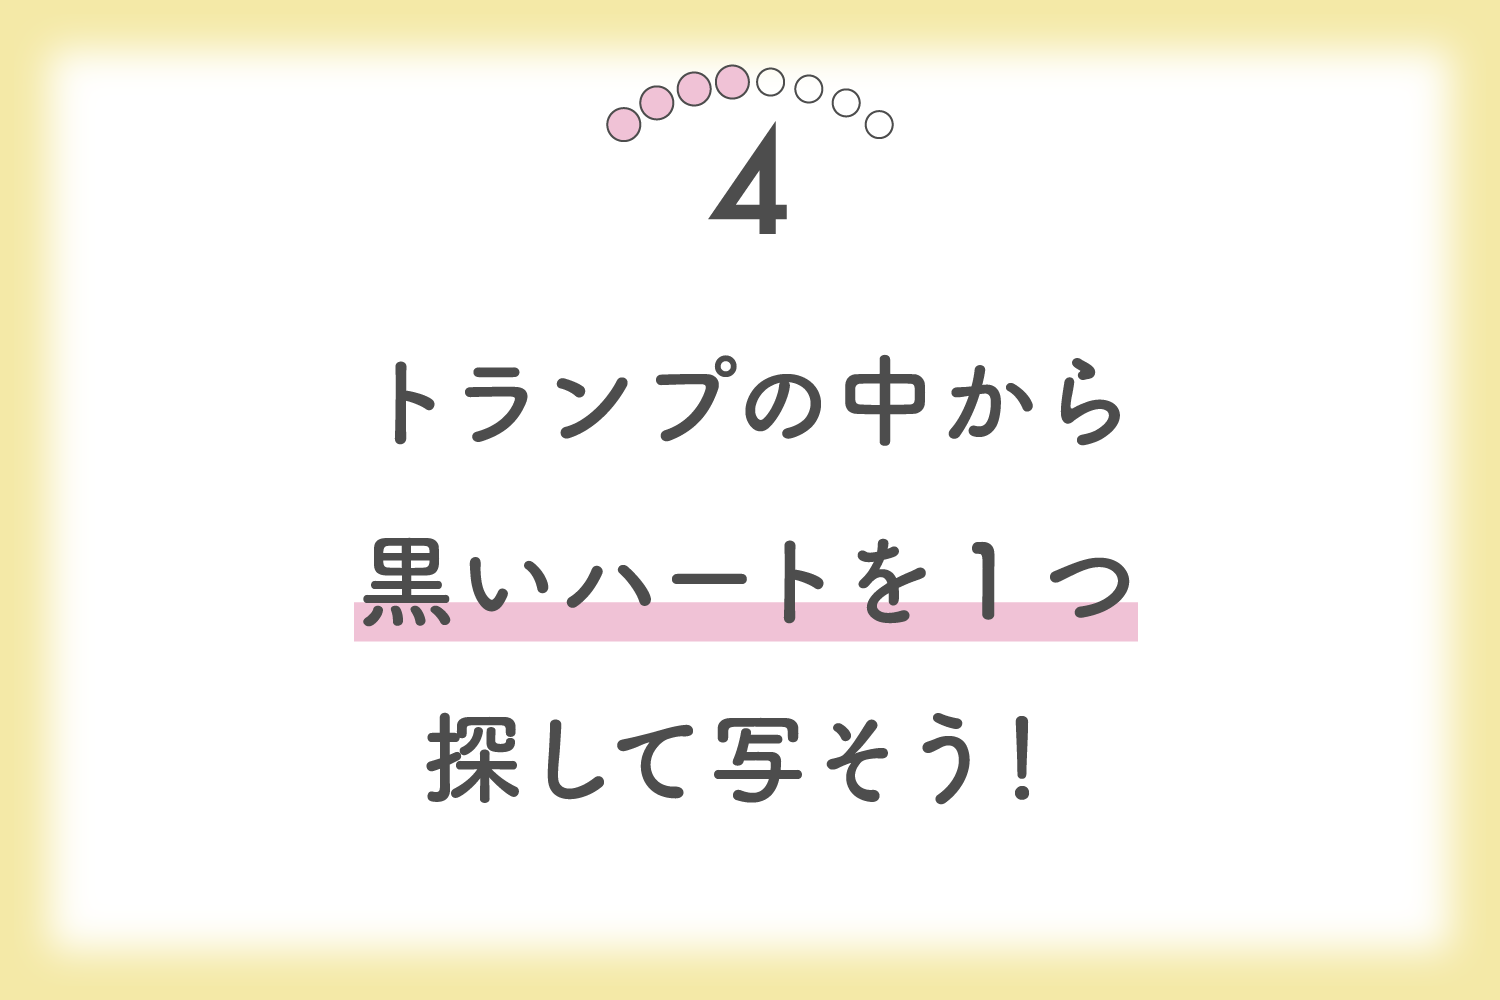
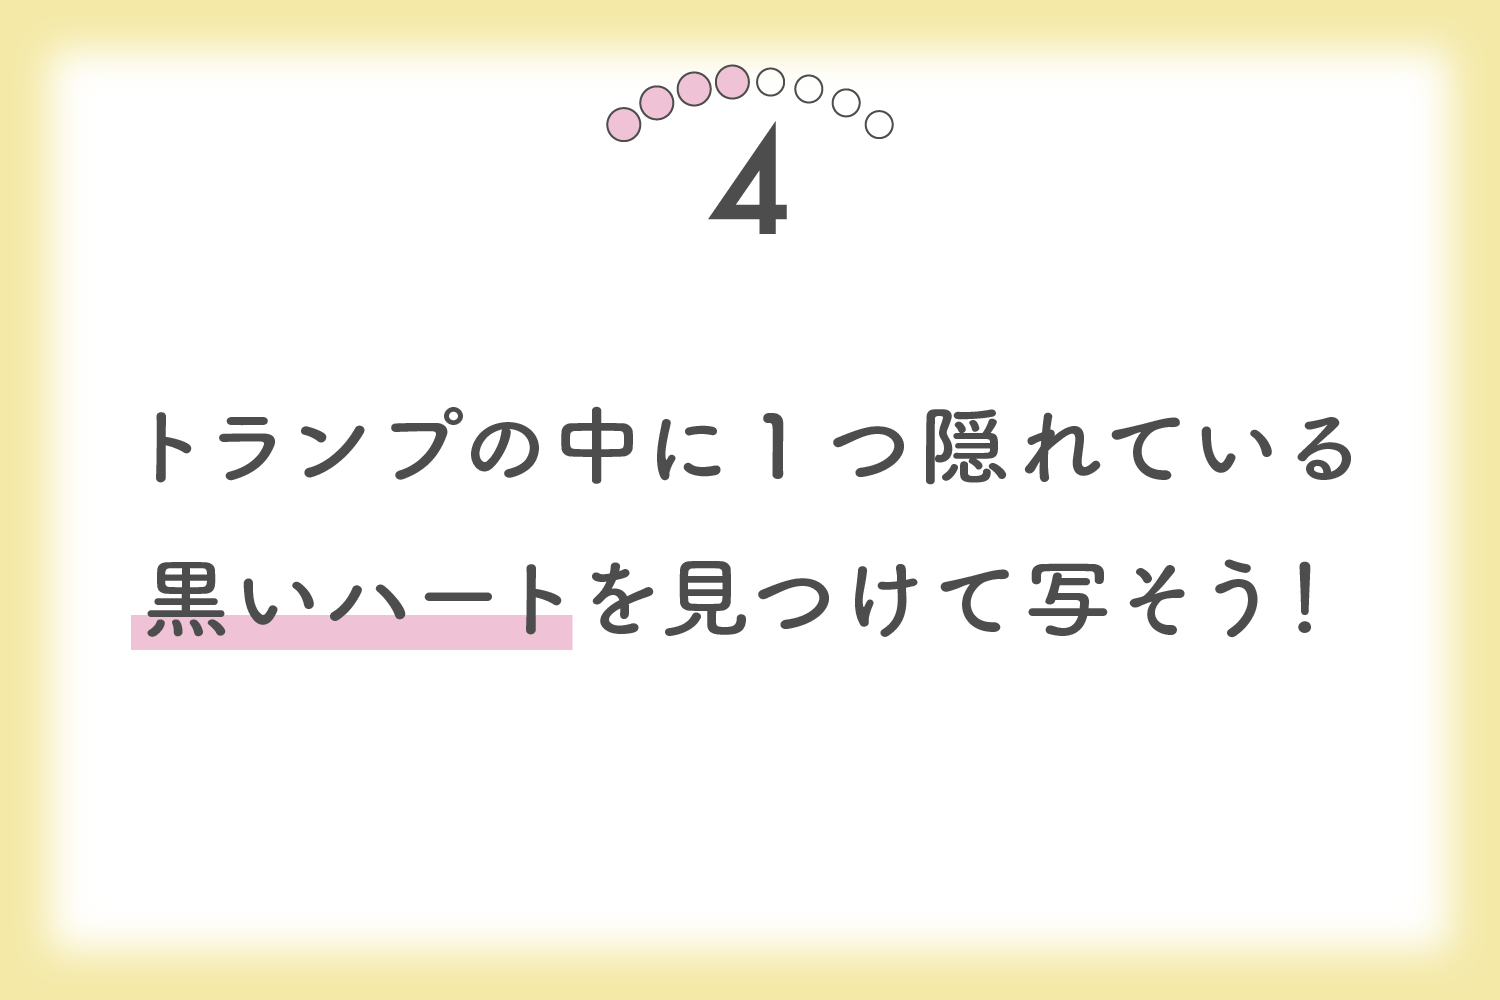
画像差し替え、アイコン挿入

diff --git a/src/components/QuestionArea.vue b/src/components/QuestionArea.vue
@@ -1,22 +1,26 @@
 <template>
-    <SoundPlayer v-bind="{course,imageInd,time}"></SoundPlayer>
-    <div class="2 h-full mx-auto text-center">
-      <img class=" text-center  mx-auto my-auto"  v-bind:src="imgSrc" alt="">
+
+<link rel="stylesheet" href="https://fonts.sandbox.google.com/css2?family=Material+Symbols+Outlined:opsz,wght,FILL,GRAD@20..48,100..700,0..1,-50..200" />
+ <SoundPlayer v-bind="{course,imageInd,time}"></SoundPlayer>
+    <div class="mt-8 h-full mx-auto text-center">
+      <img class="text-center  mx-auto my-auto"  v-bind:src="imgSrc" alt="">
     </div>
     <div>
-      <span class="countdown font-mono text-9xl flex justify-center scale-150 mt-9" v-if="time>=-1">
+      <span class="countdown font-mono text-9xl flex justify-center scale-150 mt-9" v-if="time>=0">
         <span v-bind:style="'--value:'+time+';'" v-bind:class="{'text-red-500':time<=5, 'text-white':imageInd>12}" ></span>
+      </span>     
+      <span class="flex justify-center" v-else>
+        <span class="material-symbols-outlined mt-9 text-red-500" style="font-size:130px;">photo_camera</span>    
       </span>
-      <i class="text-red-500 font-title text-[200px] las la-camera flex justify-center" v-else></i>      
     </div>
 
 </template>
 
 <script>
+
 import { defineComponent, onMounted, ref, watchEffect} from "vue";
 import questionData from "../assets/questionData/questions.json";
 import SoundPlayer from "./SoundPlayer.vue";
-
 
 export default defineComponent({
   name: "QuestionArea",
@@ -86,3 +90,6 @@ export default defineComponent({
   },
 })
 </script>
+
+<style>
+</style>

diff --git a/src/App.vue b/src/App.vue
@@ -1,6 +1,6 @@
 <template>   
   <main class="flex flex-no-wrap  flex-row items-center justify-between" >
-      <div class="h-5/6 w-1/2 mx-auto ">
+      <div class="mt-0 h-5/6 w-1/2 mx-auto ">
         <QuestionArea ref="questionRef" :course="course" :imageInd="imageInd" :keyboardPress="keyboardPress" />
       </div>
       <div class="h-5/6 w-5/12 text-center mx-auto ">

diff --git a/src/main.js b/src/main.js
@@ -3,4 +3,3 @@ import App from './App.vue'
 import './index.css' //tailwindの読みこみ
 
 createApp(App).mount('#app')
-
